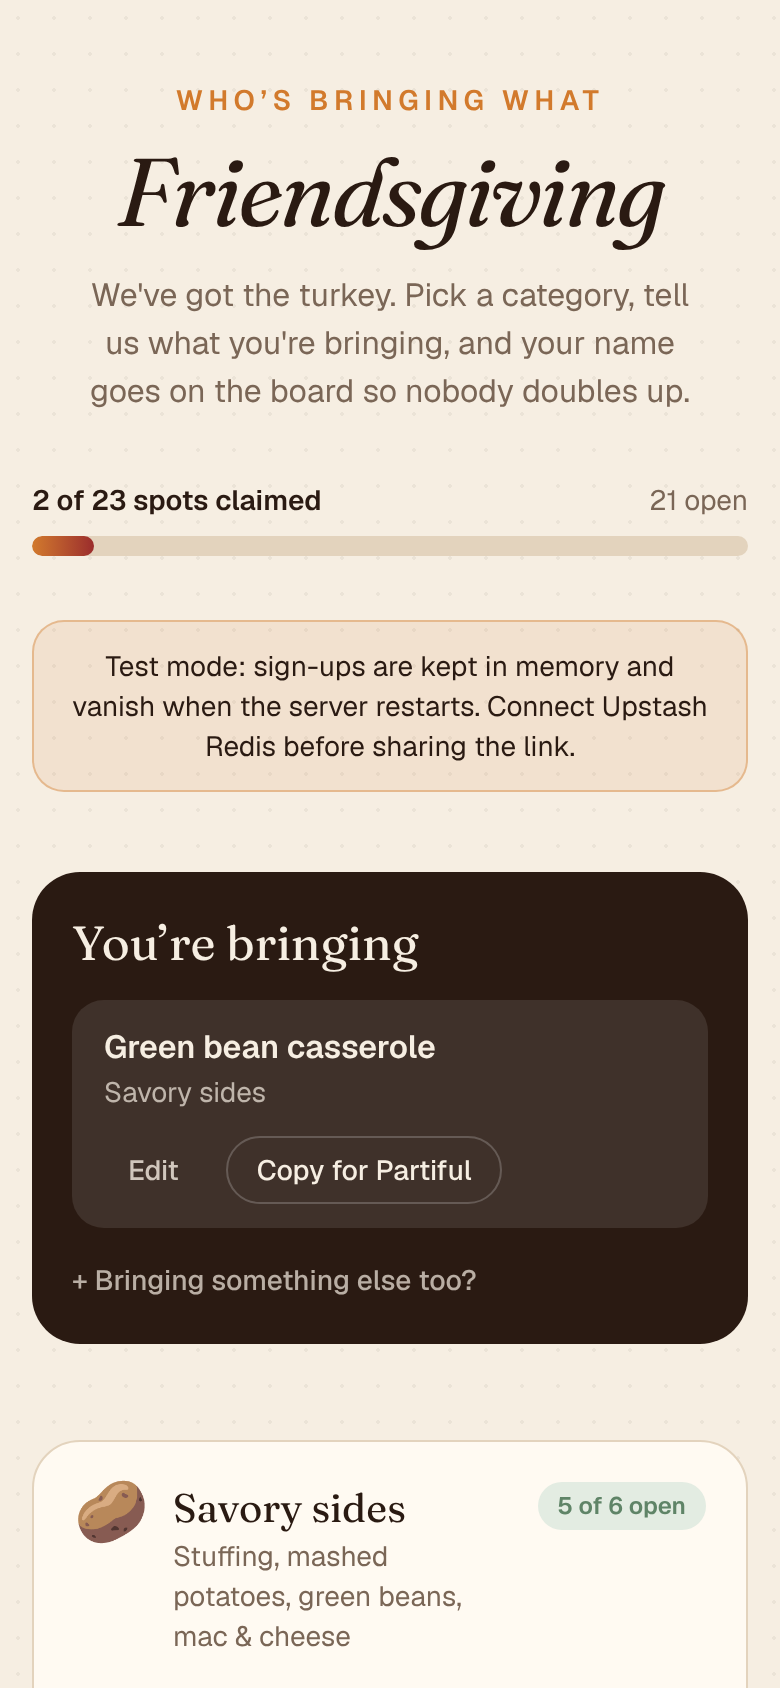
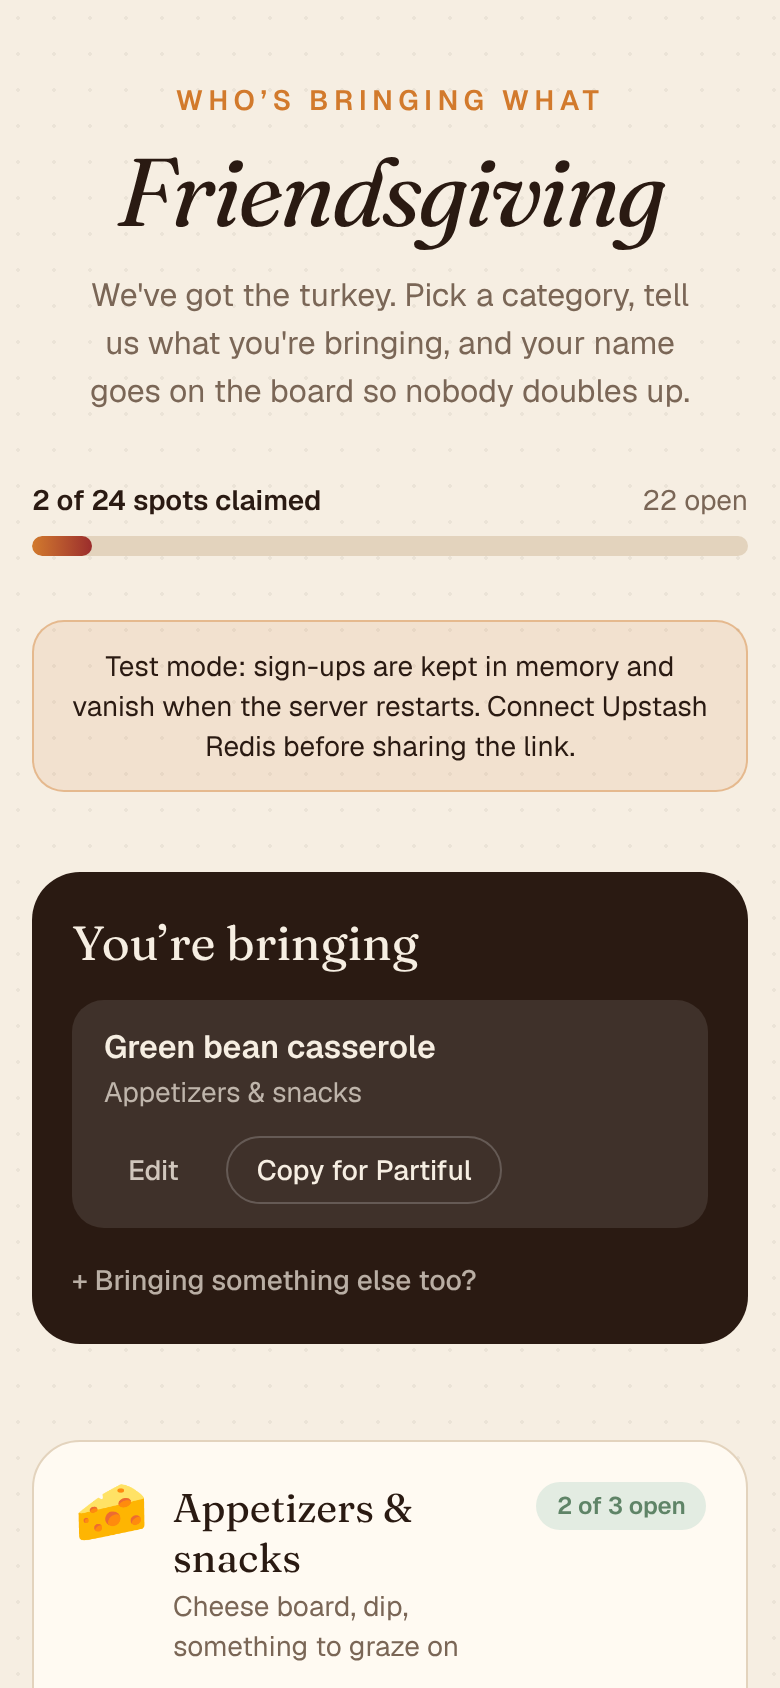
Remove the Partiful link and PARTIFUL_URL setting
Claude-Session: https://claude.ai/code/session_01TwRmdfZLFXWiVKmE3cHCqh

diff --git a/src/components/BoardView.tsx b/src/components/BoardView.tsx
@@ -14,7 +14,7 @@ type Mode = { kind: "new"; category: string } | { kind: "edit"; signup: Signup }
 
 const POLL_MS = 8000;
 
-export function BoardView({ initial, partifulUrl }: { initial: Board; partifulUrl: string }) {
+export function BoardView({ initial }: { initial: Board }) {
   const [board, setBoard] = useState(initial);
   const [mine, setMine] = useState<Record<string, string>>({});
   const [name, setName] = useState("");
@@ -214,16 +214,6 @@ export function BoardView({ initial, partifulUrl }: { initial: Board; partifulUr
         ))}
       </div>
 
-      {partifulUrl && (
-        <p className="mt-12 text-center text-sm text-muted">
-          RSVP and event details are on{" "}
-          <a href={partifulUrl} className="font-semibold text-cranberry underline underline-offset-4">
-            Partiful
-          </a>
-          .
-        </p>
-      )}
-
       {mode?.kind === "new" && (
         <Sheet title="Claim a spot" onClose={close}>
           <SignupForm
@@ -284,25 +274,13 @@ export function BoardView({ initial, partifulUrl }: { initial: Board; partifulUr
             <p className="min-w-0 flex-1 font-medium">{rsvpLine(mode.signup, board.categories)}</p>
             <CopyButton text={rsvpLine(mode.signup, board.categories)} />
           </div>
-          <div className="mt-6 flex flex-col gap-2 sm:flex-row-reverse">
-            {partifulUrl ? (
-              <a
-                href={partifulUrl}
-                className="flex-1 rounded-full bg-cranberry py-3.5 text-center font-semibold text-white hover:bg-cranberry-dark"
-              >
-                Back to Partiful
-              </a>
-            ) : null}
-            <button
-              type="button"
-              onClick={close}
-              className={`flex-1 rounded-full py-3.5 font-semibold ${
-                partifulUrl ? "border border-line hover:bg-line/40" : "bg-cranberry text-white hover:bg-cranberry-dark"
-              }`}
-            >
-              Done
-            </button>
-          </div>
+          <button
+            type="button"
+            onClick={close}
+            className="mt-6 w-full rounded-full bg-cranberry py-3.5 font-semibold text-white hover:bg-cranberry-dark"
+          >
+            Done
+          </button>
           <p className="mt-4 text-center text-xs text-muted">
             You can edit or remove it from this page on this device anytime.
           </p>

diff --git a/src/app/page.tsx b/src/app/page.tsx
@@ -6,6 +6,5 @@ import { getStore } from "@/lib/store";
 export default async function Home() {
   // Always render with the live board, never a build-time snapshot.
   await connection();
-  // Read on the server from PARTIFUL_URL, so it stays out of the repo and the JS bundle.
-  return <BoardView initial={await board(getStore())} partifulUrl={process.env.PARTIFUL_URL ?? ""} />;
+  return <BoardView initial={await board(getStore())} />;
 }

diff --git a/README.md b/README.md
@@ -30,7 +30,7 @@ Without Redis env vars, sign-ups live in memory: fine for trying it out, but the
 
 1. Push to GitHub and import the repo in Vercel.
 2. In the Vercel project, open **Storage** and add **Upstash for Redis** (the free tier is plenty). That sets `KV_REST_API_URL` / `KV_REST_API_TOKEN` automatically. `UPSTASH_REDIS_REST_URL` / `UPSTASH_REDIS_REST_TOKEN` also work.
-3. Add environment variables: `HOST_PIN`, and optionally `PARTIFUL_URL` (your Partiful event link, shown as a "Back to Partiful" button). Both stay out of the repo. Changing them needs a redeploy.
+3. Add the `HOST_PIN` environment variable. It stays out of the repo. Changing it needs a redeploy.
 4. Deploy. Keep the deployed URL out of this repo (README, repo description, website field): the repo is public, and anyone with the link can sign up. If you want it under your own site, point a subdomain at it (e.g. `friendsgiving.yourdomain.com`) under **Settings → Domains**.
 
 Production, preview and local dev use separate Redis keys (`fg:<VERCEL_ENV>:*`), so testing never touches the real board.
